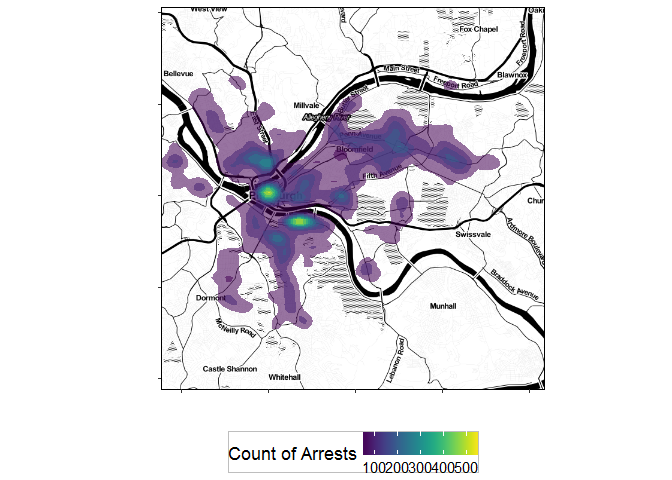
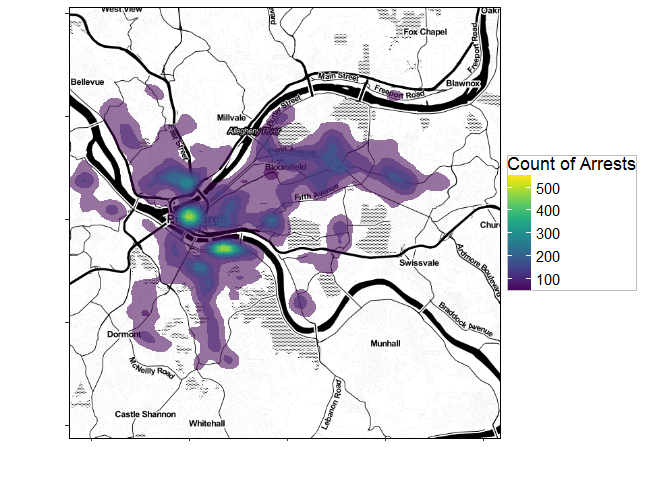
moved legend on the last map to the side

Changed region(s): [[0.0938, 0.0, 0.9688, 1.0], [0.0938, 0.7188, 0.2812, 0.9375], [0.125, 0.9062, 0.1562, 0.9375]]

diff --git a/Exploratory_Analysis_rmarkdown_github.md b/Exploratory_Analysis_rmarkdown_github.md
@@ -378,7 +378,7 @@ ggmap(city_map) +
   stat_density_2d(data = df_map, #Using a 2d contour
                   aes(x, #longitude
                       y, #latitude
-                      fill = ..level.., #Use the count of arrests as the fill
+                      fill = ..level.., #Use the level of arrests as the fill
                       alpha = .5), #Use alpha so you can see the map under the data
                   geom = "polygon") + #We want the contour in a polygon
   scale_fill_viridis() +
@@ -387,9 +387,7 @@ ggmap(city_map) +
   labs(x = "",
        y = "") +
   theme_nhh() +
-  theme(axis.text = element_blank(),
-        legend.position = "bottom",
-        legend.direction = "horizontal")
+  theme(axis.text = element_blank())
 ```
 
     ## Warning: `panel.margin` is deprecated. Please use `panel.spacing` property
